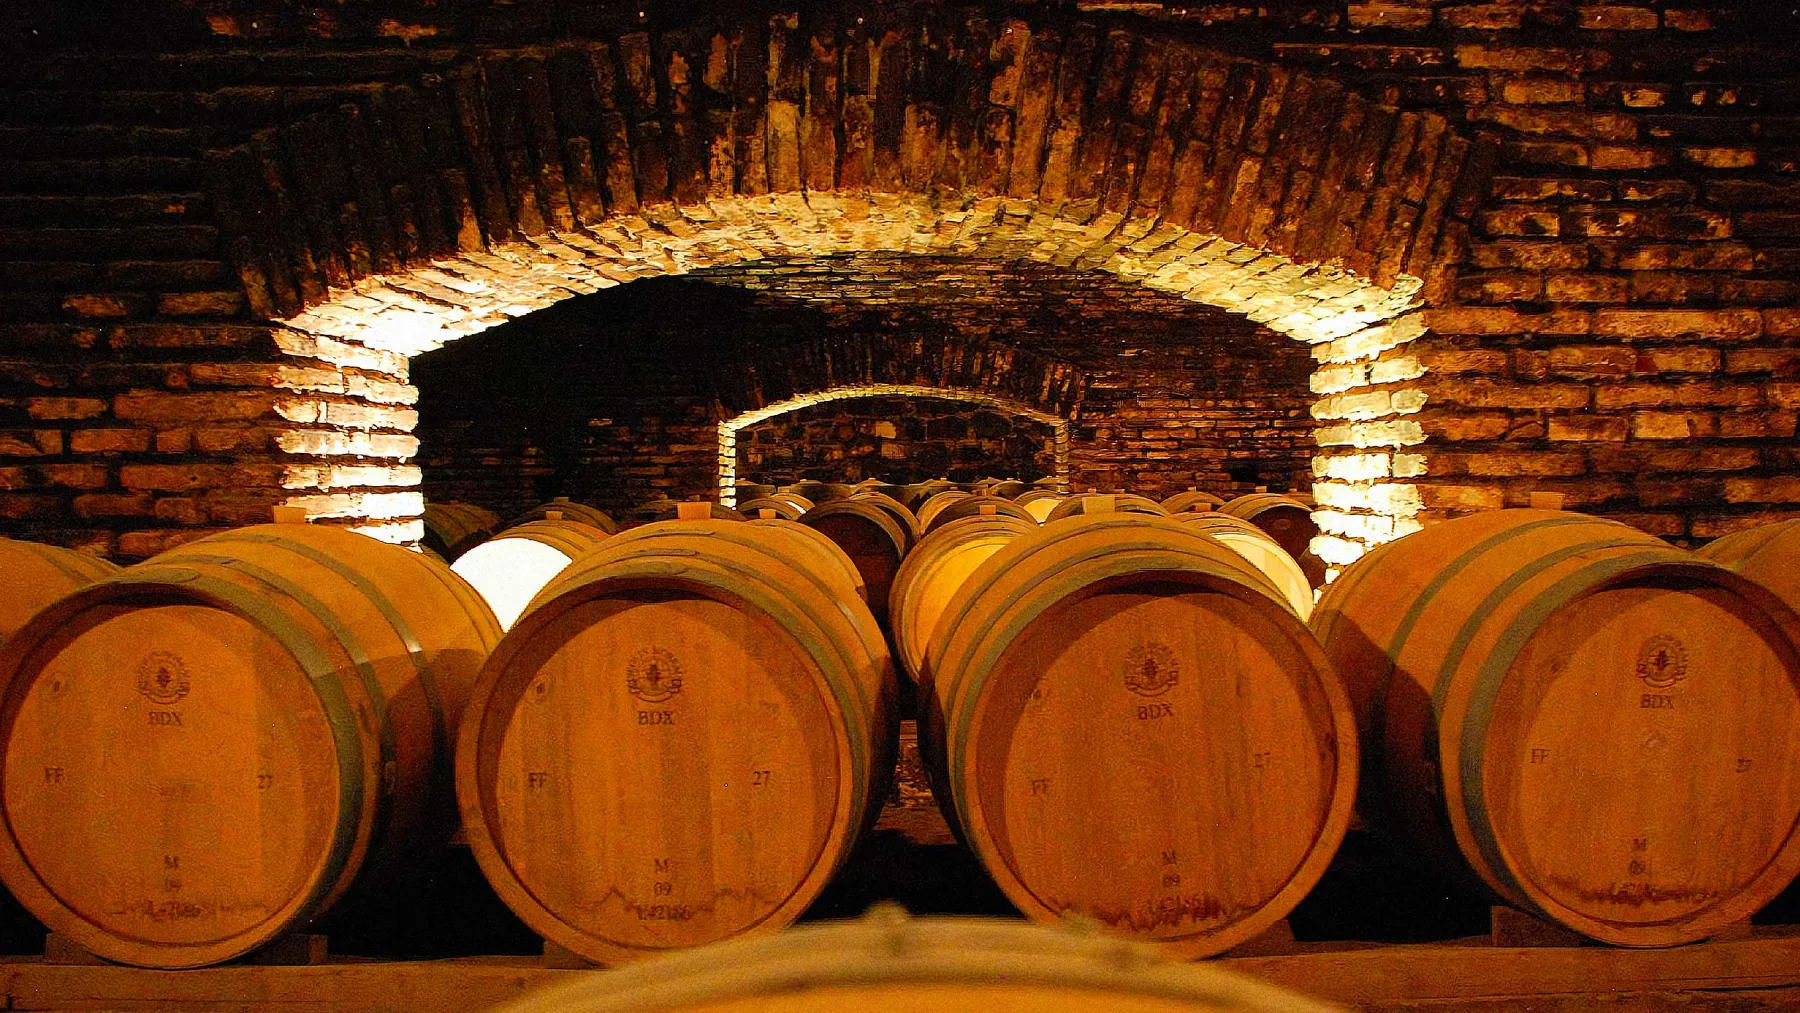
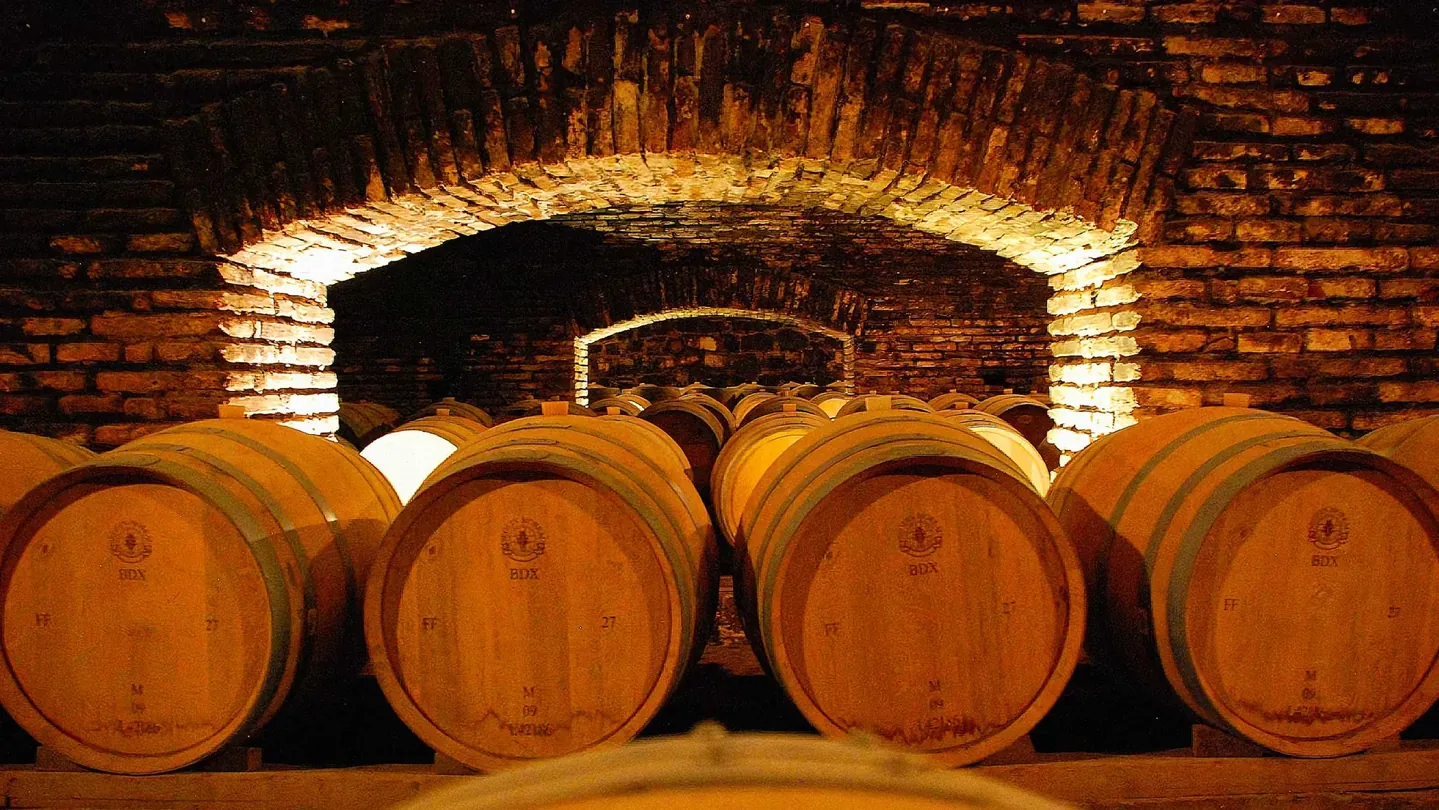
Optimiza imágenes y amplía las pruebas del catálogo

diff --git a/src/front/js/component/FIlteredproduct.jsx b/src/front/js/component/FIlteredproduct.jsx
@@ -2,9 +2,8 @@ import React, { useEffect, useMemo, useState } from "react";
 import { useSearchParams } from "react-router-dom";
 import { Card, ProductCardSkeleton } from "./Card.jsx";
 import { apiFetch } from "../services/api";
+const { filterAndSortProducts } = require("./catalogFilters.common.js");
 import "../../styles/filter.css";
-
-const normalize = value => (value || "").toLocaleLowerCase("es").normalize("NFD").replace(/[\u0300-\u036f]/g, "");
 
 const EmptyResults = ({ clear }) => (
   <div className="wine-empty-state">
@@ -42,26 +41,7 @@ const Filteredproduct = () => {
   };
 
   const filtered = useMemo(() => {
-    const query = normalize(filters.query);
-    const result = products.filter(product => {
-      const searchable = normalize([product.nombre, product.marca, product.tipo, product.cepa, product.categoria].join(" "));
-      const offerMatch = query === "ofertas" ? Boolean(product.precio_oferta) : searchable.includes(query);
-      const price = product.precio_oferta || product.precio;
-      return offerMatch
-        && (!filters.offersOnly || Boolean(product.precio_oferta))
-        && (!filters.type || normalize(product.tipo) === normalize(filters.type))
-        && (!filters.grape || product.cepa === filters.grape)
-        && (!filters.category || normalize(product.categoria) === normalize(filters.category))
-        && (!filters.maxPrice || price <= Number(filters.maxPrice));
-    });
-    return [...result].sort((a, b) => {
-      const aPrice = a.precio_oferta || a.precio;
-      const bPrice = b.precio_oferta || b.precio;
-      if (filters.sort === "price-asc") return aPrice - bPrice;
-      if (filters.sort === "price-desc") return bPrice - aPrice;
-      if (filters.sort === "discount") return Number(Boolean(b.precio_oferta)) - Number(Boolean(a.precio_oferta));
-      return a.id - b.id;
-    });
+    return filterAndSortProducts(products, filters);
   }, [products, filters]);
 
   const clear = () => { setFilters({ query: "", type: "", grape: "", category: "", maxPrice: "", sort: "featured", offersOnly: false }); setSearchParams({}); };

diff --git a/src/front/js/component/catalogFilters.common.js b/src/front/js/component/catalogFilters.common.js
@@ -1,0 +1,36 @@
+const normalize = value => (value || "")
+  .toLocaleLowerCase("es")
+  .normalize("NFD")
+  .replace(/[\u0300-\u036f]/g, "");
+
+const effectivePrice = product => product.precio_oferta || product.precio || 0;
+
+const filterAndSortProducts = (products, filters) => {
+  const query = normalize(filters.query);
+  const result = products.filter(product => {
+    const searchable = normalize([
+      product.nombre,
+      product.marca,
+      product.tipo,
+      product.cepa,
+      product.categoria,
+    ].join(" "));
+    const offerMatch = query === "ofertas" ? Boolean(product.precio_oferta) : searchable.includes(query);
+
+    return offerMatch
+      && (!filters.offersOnly || Boolean(product.precio_oferta))
+      && (!filters.type || normalize(product.tipo) === normalize(filters.type))
+      && (!filters.grape || product.cepa === filters.grape)
+      && (!filters.category || normalize(product.categoria) === normalize(filters.category))
+      && (!filters.maxPrice || effectivePrice(product) <= Number(filters.maxPrice));
+  });
+
+  return [...result].sort((first, second) => {
+    if (filters.sort === "price-asc") return effectivePrice(first) - effectivePrice(second);
+    if (filters.sort === "price-desc") return effectivePrice(second) - effectivePrice(first);
+    if (filters.sort === "discount") return Number(Boolean(second.precio_oferta)) - Number(Boolean(first.precio_oferta));
+    return first.id - second.id;
+  });
+};
+
+module.exports = { normalize, effectivePrice, filterAndSortProducts };

diff --git a/src/front/js/pages/home.js b/src/front/js/pages/home.js
@@ -6,7 +6,7 @@ import { Card, ProductCardSkeleton } from "../component/Card.jsx";
 import ModalControlEdad from "../component/ModalControlEdad.jsx";
 import { apiFetch } from "../services/api";
 import originImage from "../../img/barriles-concha-y-toro.webp";
-import vineyardCircleImage from "../../img/vina-circular-don-melchor.jpg";
+import vineyardCircleImage from "../../img/vina-circular-don-melchor.webp";
 
 const ProductSection = ({ eyebrow, title, description, products, loading, link, linkText }) => (
   <section className="wine-section container">

diff --git a/src/front/js/component/Hero.jsx b/src/front/js/component/Hero.jsx
@@ -1,6 +1,6 @@
 import React from "react";
 import { Link } from "react-router-dom";
-import heroUrl from "../../img/vina-concha-y-toro-hero.jpg";
+import heroUrl from "../../img/vina-concha-y-toro-hero.webp";
 import "../../styles/navbarHero.css";
 
 const Hero = () => (
